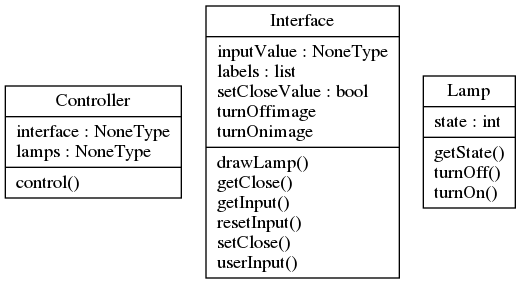
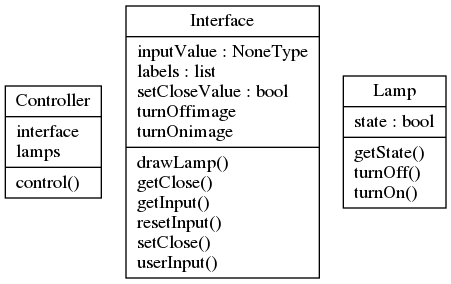
클래스 다이어그램 수정

Changed region(s): [[0.0, 0.0, 0.9933, 0.9859]]

diff --git a/src/lamp_on_off.py b/src/lamp_on_off.py
@@ -3,16 +3,16 @@ NOLAMP = 5
 
 class Lamp:
     def __init__(self):
-        self.state = 0
+        self.state = False
 
     def getState(self):
         return self.state
 
     def turnOn(self):
-        self.state = 1
+        self.state = True
 
     def turnOff(self):
-        self.state = 0
+        self.state = False
 
 class Interface(tk.Tk):
     def __init__(self):
@@ -40,10 +40,9 @@ class Interface(tk.Tk):
         self.setCloseValue = True
         self.protocol("WM_DELETE_WINDOW", self.setClose)
 
-    def userInput(self, event=None):
+    def userInput(self, event):
         self.inputValue = event.char
         print("push: "+self.inputValue)
-        return
 
     def drawLamp(self, lamps):
         if lamps == None:
@@ -54,14 +53,14 @@ class Interface(tk.Tk):
                 del label
 
             for lamp in lamps:
-                if lamp.getState() == 0:
-                    turnOfflabel = tk.Label(image=self.turnOffimage)
-                    turnOfflabel.pack(side=tk.LEFT)
-                    self.labels.append(turnOfflabel)
-                else:
+                if lamp.getState():
                     turnOnlabel = tk.Label(image=self.turnOnimage)
                     turnOnlabel.pack(side=tk.LEFT)
                     self.labels.append(turnOnlabel)
+                else:
+                    turnOfflabel = tk.Label(image=self.turnOffimage)
+                    turnOfflabel.pack(side=tk.LEFT)
+                    self.labels.append(turnOfflabel)
 
             self.update()
 
@@ -78,7 +77,7 @@ class Interface(tk.Tk):
         return self.setCloseValue
 
 class Controller:
-    def __init__(self, lamps=None, inter=None):
+    def __init__(self, lamps, inter):
         self.lamps = lamps
         self.interface = inter
 
@@ -86,11 +85,11 @@ class Controller:
         choice = self.interface.getInput()
         if choice == None:
             return None
-        elif self.lamps[int(choice)-1].getState() == 0:
-            self.lamps[int(choice)-1].turnOn()
+        elif self.lamps[int(choice)-1].getState():
+            self.lamps[int(choice)-1].turnOff()
             self.interface.resetInput()
         else:
-            self.lamps[int(choice)-1].turnOff()
+            self.lamps[int(choice)-1].turnOn()
             self.interface.resetInput()
 
         for i in range(0, NOLAMP):
